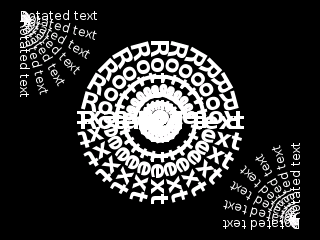
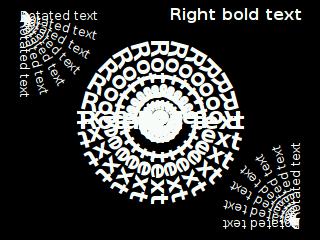
Added support for right aligned text
Also updated the text.js example

diff --git a/examples/text.js b/examples/text.js
@@ -24,3 +24,6 @@ for (var a=180; a<=270; a+=15) {
     fb.font("fantasy", 12); // Use the "fantasy" font with size 12
     fb.text(xMax-20, yMax-20, "Rotated text", false, a); // Draw the text non-centered, rotated _a_ degrees
 }
+
+fb.font("fantasy", 16, true); // Use the "fantasy" font with size 16 and bold
+fb.text(xMax-20, 20, "Right bold text", false, 0, true); // Draw the text non-centered, non-rotated, right

diff --git a/src/framebuffer.cc b/src/framebuffer.cc
@@ -399,6 +399,7 @@ NAN_METHOD(FrameBuffer::Text) {
 
     bool textCentered = info[3]->IsUndefined() ? false : info[3]->BooleanValue();
     double textRotation = info[4]->IsUndefined() ? 0 : info[4]->NumberValue();
+    bool textRight = info[5]->IsUndefined() ? false : info[5]->BooleanValue();
 
     FrameBuffer *obj = Nan::ObjectWrap::Unwrap<FrameBuffer>(info.Holder());
 
@@ -425,6 +426,11 @@ NAN_METHOD(FrameBuffer::Text) {
         cairo_text_extents(cr, _text.c_str(), &extents);
 
         cairo_move_to(cr, -extents.width/2, extents.height/2);
+    } else if (textRight) {
+        cairo_text_extents_t extents;
+        cairo_text_extents(cr, _text.c_str(), &extents);
+
+        cairo_move_to(cr, -extents.width, 0);
     }
 
     cairo_show_text(cr, _text.c_str());
